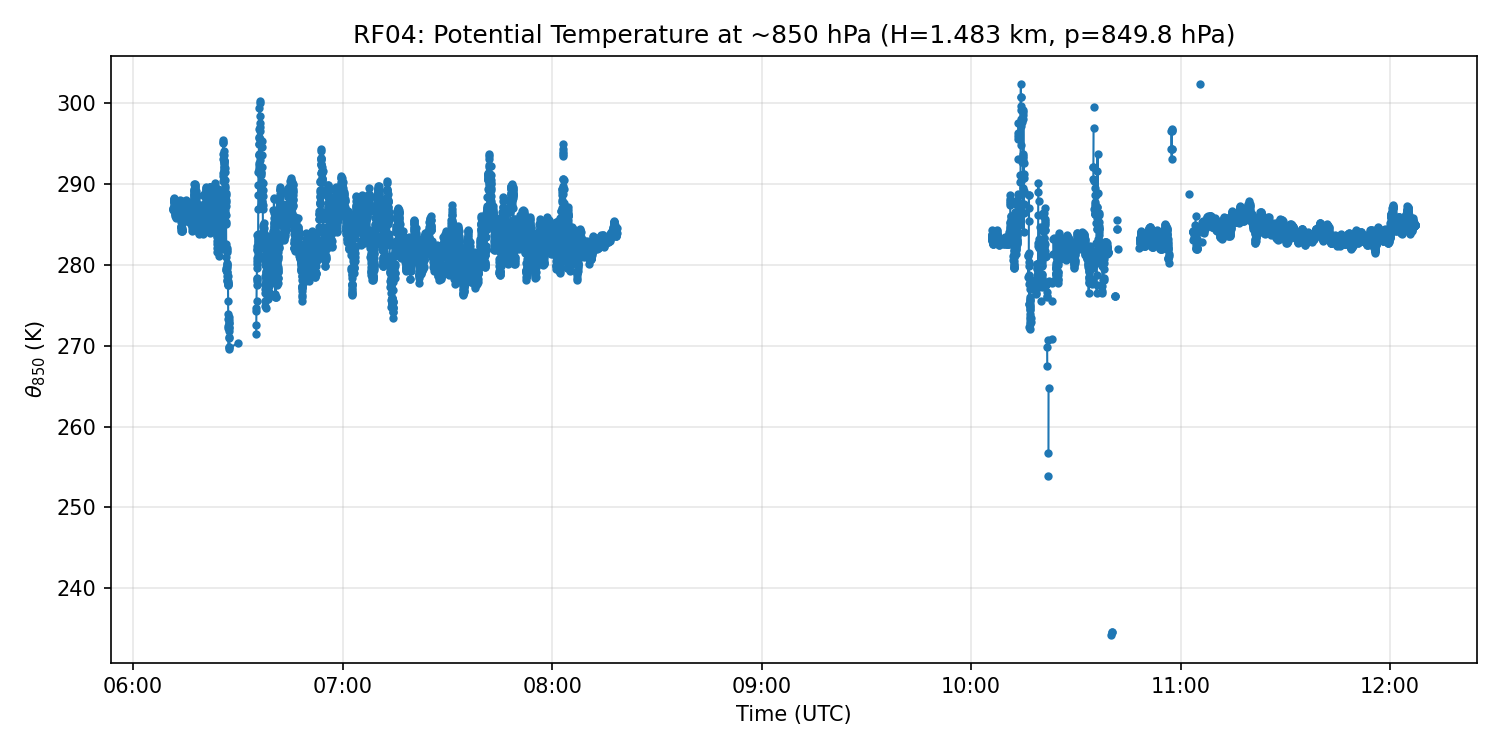
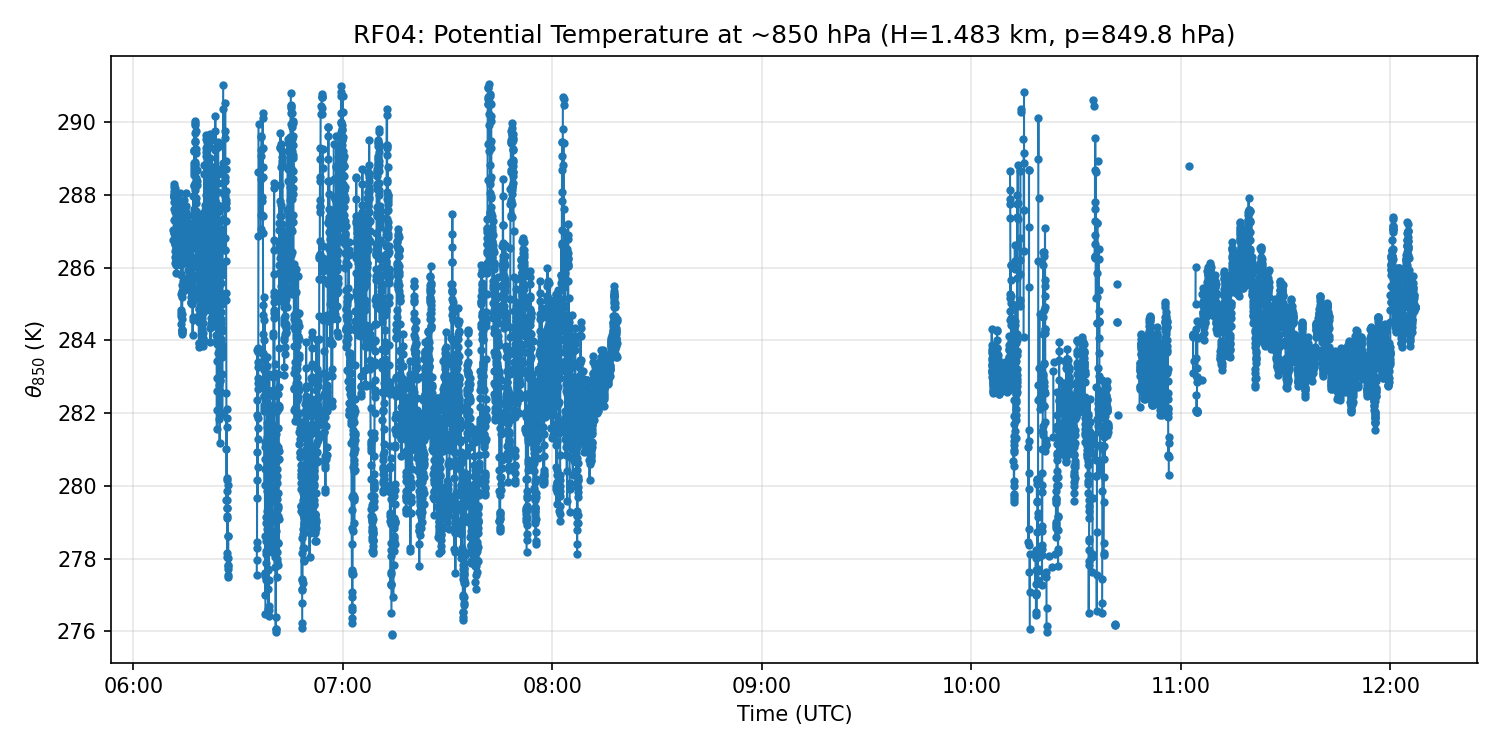
contours

diff --git a/src/638-021/potential_temperature.py b/src/638-021/potential_temperature.py
@@ -17,11 +17,36 @@ PLOTS_DIR = os.path.join(PROJECT_ROOT, f"output/{DATASET}/plots/potential_temper
 FILL_VALUE = 9999.0
 P_850 = 850  # hPa
 
-P_SURFACE = 1013.25  # hPa, standard sea-level pressure
-T_MEAN = 288.15  # K, standard mean temperature (ISA sea-level) = 15 degC
-R_D = 287.05  # J/(kg K), specific gas constant for dry air
-G = 9.81  # m/s^2, gravitational acceleration
-KAPPA = 0.286  # R/c_p
+MAD_K = 5.0  # multiplier for MAD
+
+
+def mask_temperature_outliers(T: np.ndarray, k: float = MAD_K) -> np.ndarray:
+    """
+    Mask outlier temperatures using per-level median absolute deviation.
+    """
+
+    T = T.astype(np.float64, copy=True)
+    T[(T >= FILL_VALUE) | (T < -100) | (T > 100)] = np.nan
+
+    if T.ndim == 1:
+        T = T[:, np.newaxis]
+        squeeze = True
+    else:
+        squeeze = False
+
+    for j in range(T.shape[1]):
+        col = T[:, j]
+        valid = col[~np.isnan(col)]
+        if len(valid) < 3:
+            continue
+        median = np.median(valid)
+        mad = np.median(np.abs(valid - median))
+        if mad == 0:
+            continue
+        else:
+            T[np.abs(col - median) > k * mad, j] = np.nan
+
+    return T[:, 0] if squeeze else T
 
 
 def height_to_pressure(h_km: np.ndarray) -> np.ndarray:
@@ -29,12 +54,18 @@ def height_to_pressure(h_km: np.ndarray) -> np.ndarray:
 
     p = p_surface * exp(-h * g / (R_d * T_mean))
     """
+    P_SURFACE = 1013.25  # hPa, standard sea-level pressure
+    T_MEAN = 288.15  # K, standard mean temperature (ISA sea-level) = 15 degC
+    R_D = 287.05  # J/(kg K), specific gas constant for dry air
+    G = 9.81  # m/s^2, gravitational acceleration
+
     h_m = h_km * 1000.0  # km -> m
     return P_SURFACE * np.exp(-h_m * G / (R_D * T_MEAN))
 
 
 def potential_temperature(t_celsius: np.ndarray, p_hpa: float) -> np.ndarray:
-    """θ = T (p₀/p)^(R/cₚ)  with p₀ = 1000 hPa, R/cₚ = 0.286."""
+    KAPPA = 0.286  # R/c_p
+
     t_kelvin = t_celsius + 273.15
     return t_kelvin * (1000.0 / p_hpa) ** KAPPA
 
@@ -42,9 +73,6 @@ def potential_temperature(t_celsius: np.ndarray, p_hpa: float) -> np.ndarray:
 def _extract_theta_850_from_file(
     filename: str,
 ) -> tuple[np.ndarray, np.ndarray, float, float]:
-    T_MIN = -80.0  # degC
-    T_MAX = 60.0  # degC
-
     with open_dataset(DATASET, filename) as ds:
         H = ds["H"].values  # bin height (MSL), km
         T = ds["T"].values  # atmospheric temperature, degC
@@ -58,12 +86,8 @@ def _extract_theta_850_from_file(
     h_actual = float(H[idx])
     p_actual = float(p_levels[idx])
 
-    # extract temperature time-series at that level
-    t_at_level = T[:, idx].copy()
-
-    # filter invalid values: fill values and unphysical temperatures
-    invalid = (t_at_level >= FILL_VALUE) | (t_at_level < T_MIN) | (t_at_level > T_MAX)
-    t_at_level[invalid] = np.nan
+    # extract temperature time-series at that level, mask outliers
+    t_at_level = mask_temperature_outliers(T[:, idx])
 
     theta = potential_temperature(t_at_level, p_actual)
     return time, theta, h_actual, p_actual

diff --git a/src/638-021/temperature_contour.py b/src/638-021/temperature_contour.py
@@ -1,0 +1,92 @@
+import os
+
+import matplotlib.pyplot as plt
+import numpy as np
+
+from nc.flights import MARLI_FILES
+from nc.loader import DATASET_VARS, PROJECT_ROOT, open_dataset
+from potential_temperature import height_to_pressure, mask_temperature_outliers, P_850
+
+DATASET = "638-021"
+PLOTS_DIR = os.path.join(PROJECT_ROOT, f"output/{DATASET}/plots/temperature_contour")
+_vars = DATASET_VARS["638-021"]
+ALTITUDE = _vars["altitude"]
+TIME = _vars["time"]
+
+
+def plot_temperature_contour(flight: str) -> str:
+    filenames = MARLI_FILES[flight]
+
+    # use the first file's height grid as reference
+    with open_dataset(DATASET, filenames[0]) as ds:
+        H = ds["H"].values
+
+    all_time = []
+    all_T = []
+    all_alt = []
+
+    for filename in filenames:
+        with open_dataset(DATASET, filename) as ds:
+            h_file = ds["H"].values
+            t_data = ds["T"].values.astype(np.float64)
+            all_time.append(ds[TIME].values)
+            all_alt.append(ds[ALTITUDE].values)
+
+            if h_file.shape[0] == H.shape[0]:
+                all_T.append(t_data)
+            else:
+                # interpolate onto the reference H grid
+                t_interp = np.array(
+                    [np.interp(H, h_file, t_data[i]) for i in range(t_data.shape[0])]
+                )
+                all_T.append(t_interp)
+
+    time = np.concatenate(all_time)
+    T = np.concatenate(all_T, axis=0)
+    alt = np.concatenate(all_alt)
+
+    # mask fill values and per-level MAD outliers
+    T = mask_temperature_outliers(T)
+
+    fig, ax = plt.subplots(figsize=(12, 6))
+    cf = ax.pcolormesh(time, H, T.T, shading="auto", cmap="RdYlBu_r")
+    fig.colorbar(cf, ax=ax, label="Temperature (°C)")
+
+    ax.xaxis.set_major_formatter(
+        plt.FuncFormatter(lambda h, _: f"{int(h):02d}:{int((h % 1) * 60):02d}")
+    )
+
+    # horizontal line at the height closest to 850 hPa
+    p_levels = height_to_pressure(H)
+    idx_850 = np.argmin(np.abs(p_levels - P_850))
+    h_850 = H[idx_850]
+    ax.axhline(
+        h_850,
+        color="black",
+        linestyle="--",
+        linewidth=1.5,
+        label=f"~850 hPa (H={h_850:.3f} km)",
+    )
+
+    ax.plot(time, alt, color="black", linewidth=1.5, label="Aircraft altitude")
+
+    ax.legend(loc="upper right", fontsize=9)
+    ax.set_xlabel("Time (UTC)")
+    ax.set_ylabel("Height (km)")
+    ax.set_title(f"{flight}: MARLi Atmospheric Temperature (°C)")
+
+    os.makedirs(PLOTS_DIR, exist_ok=True)
+    out_path = os.path.join(PLOTS_DIR, f"{flight.lower()}_temperature_contour.png")
+    fig.savefig(out_path, dpi=150, bbox_inches="tight")
+    plt.close(fig)
+    return out_path
+
+
+def main():
+    for flight in MARLI_FILES:
+        path = plot_temperature_contour(flight)
+        print(f"{flight} -> {path}")
+
+
+if __name__ == "__main__":
+    main()

diff --git a/src/nc/loader.py b/src/nc/loader.py
@@ -60,6 +60,10 @@ DATASET_VARS = {
         "latitude": "LATC",
         "longitude": "LONC",
     },
+    "638-021": {
+        "time": "time",
+        "altitude": "Alt",
+    },
     "638-038": {
         "time": "time",
         "altitude": "alt",
